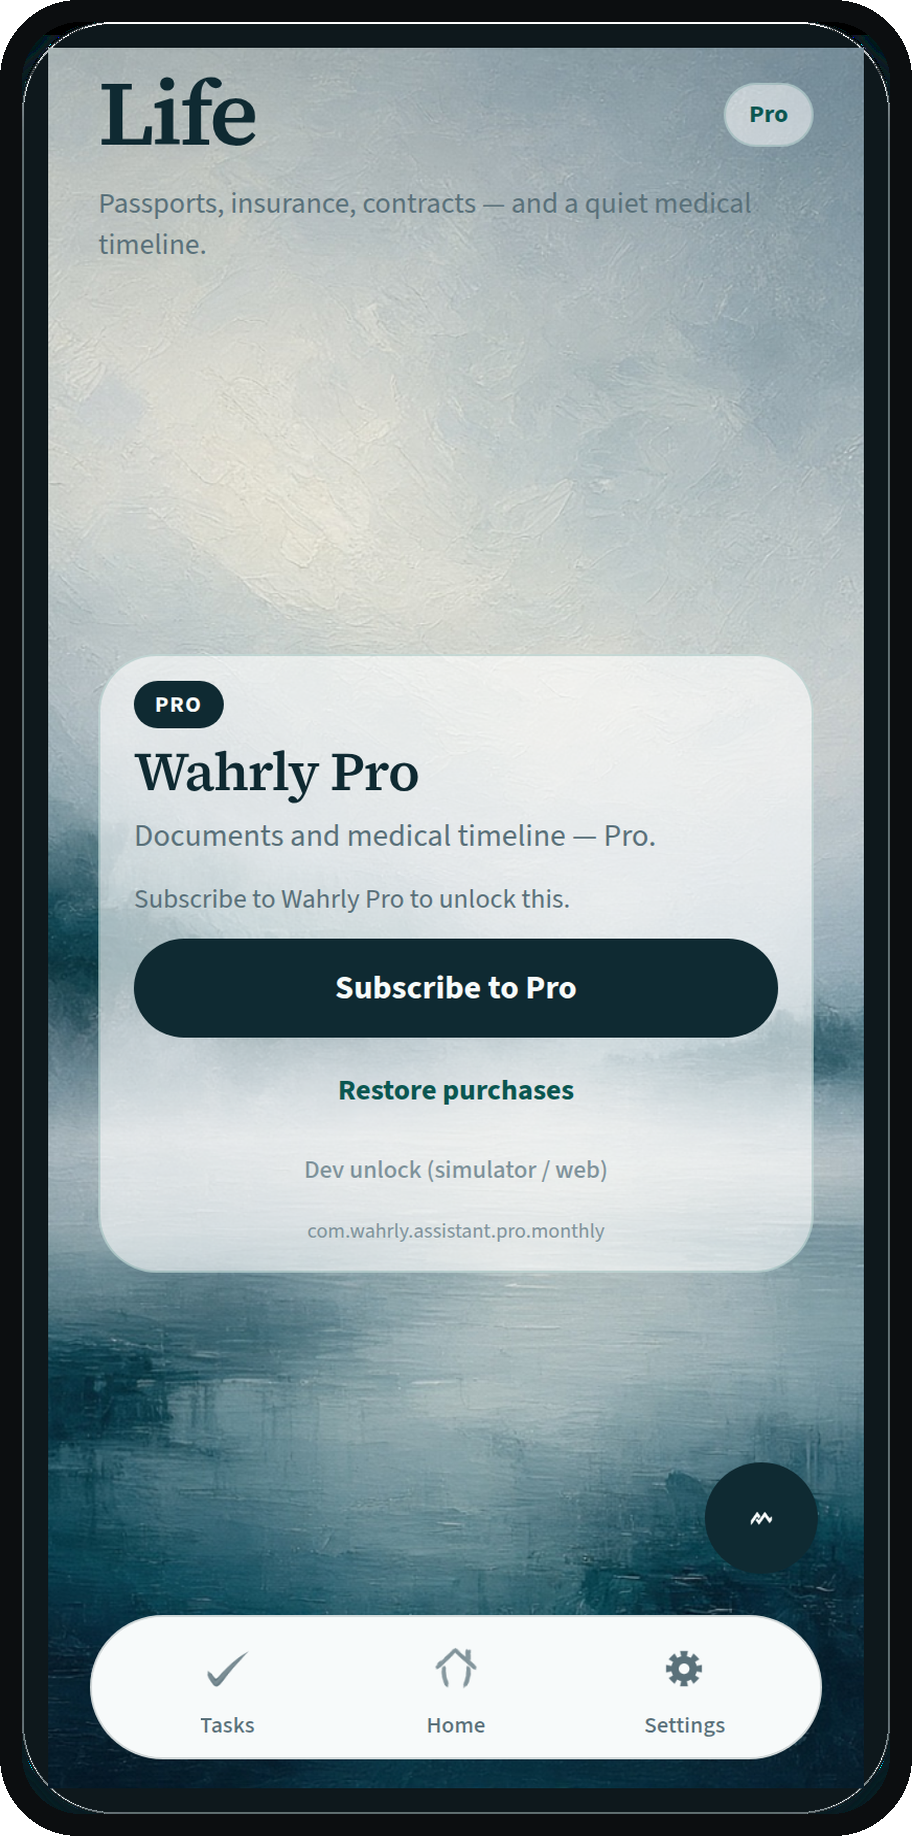
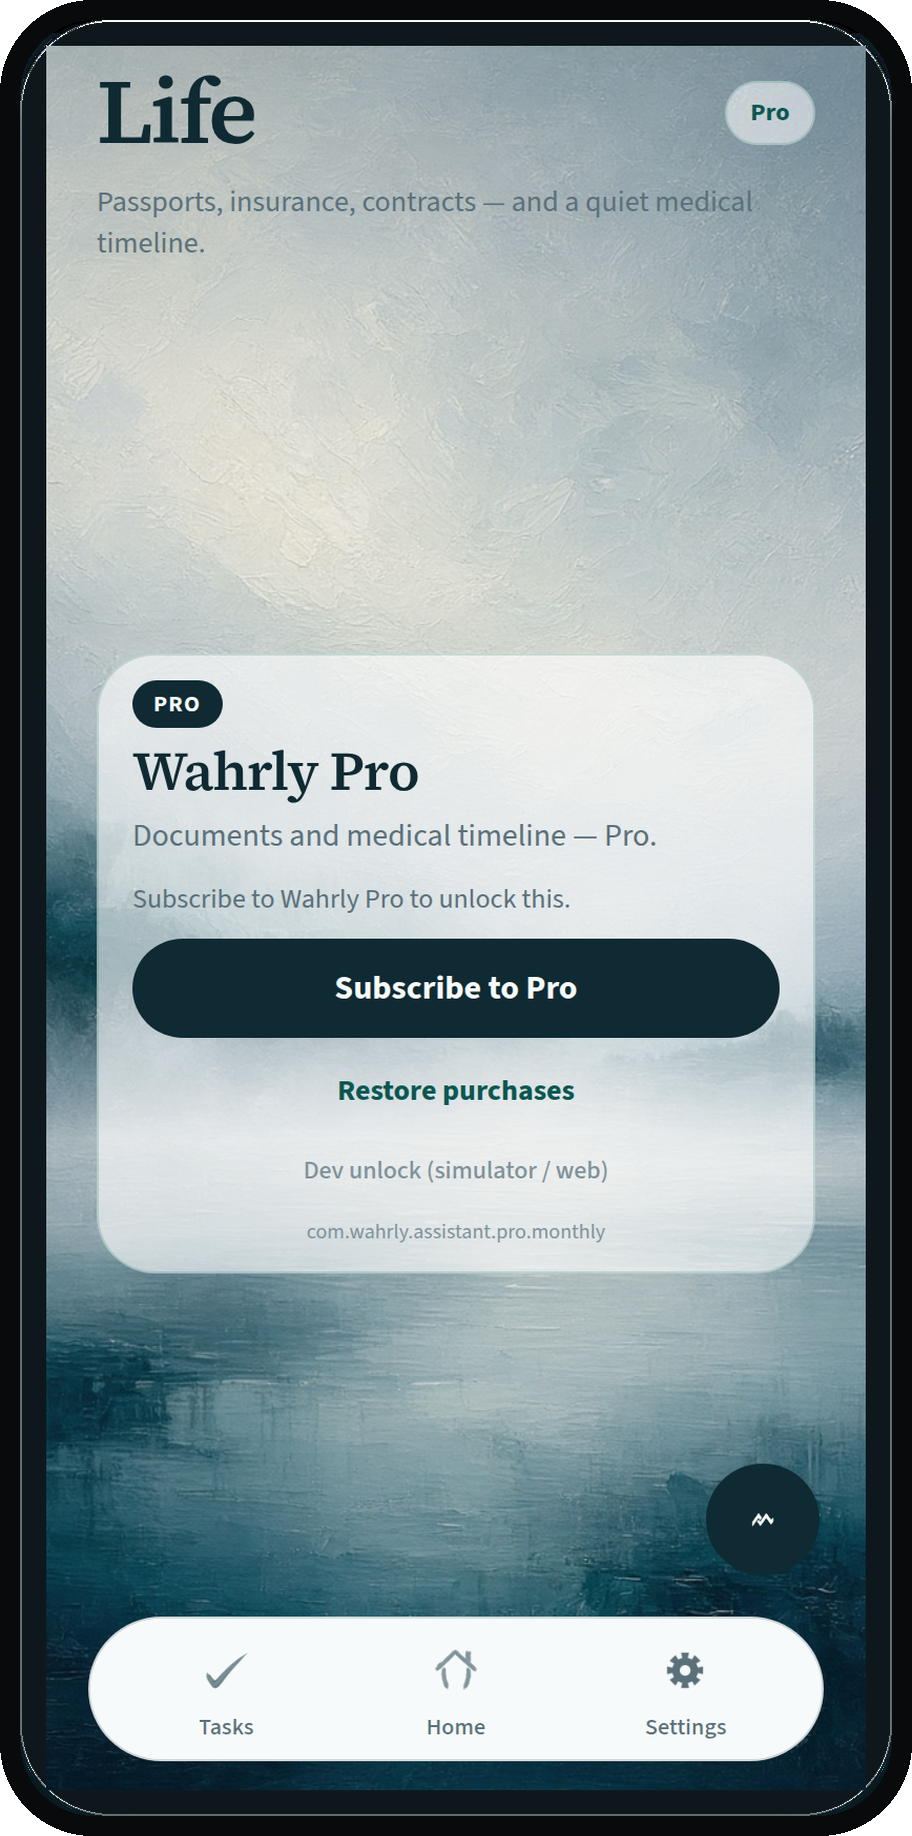
Round all device screens with matching corner masks
Stronger inner screen radius so Pro frames no longer show
square content edges against the bezel.

diff --git a/nova/public-site/index.html b/nova/public-site/index.html
@@ -18,7 +18,7 @@
       href="https://fonts.googleapis.com/css2?family=Fraunces:opsz,wght@9..144,480;9..144,600&family=Outfit:wght@300;400;500;600&display=swap"
       rel="stylesheet"
     />
-    <link rel="stylesheet" href="./styles.css?v=thin-bezel" />
+    <link rel="stylesheet" href="./styles.css?v=round-screens" />
   </head>
   <body>
     <div class="grain" aria-hidden="true"></div>
@@ -288,6 +288,6 @@
       </div>
     </footer>
 
-    <script src="./motion.js?v=thin-bezel" defer></script>
+    <script src="./motion.js?v=round-screens" defer></script>
   </body>
 </html>

diff --git a/nova/public-site/styles.css b/nova/public-site/styles.css
@@ -225,8 +225,8 @@ a {
   height: 0;
   padding-bottom: 201.315789%; /* 1836 / 912 */
   overflow: hidden;
-  border-radius: 36px;
-  background: #0a1518;
+  border-radius: 42px;
+  background: transparent;
 }
 
 .cine-shot {
@@ -499,8 +499,8 @@ a {
   height: 0;
   padding-bottom: 201.315789%; /* 1836 / 912 — locks ratio on iOS */
   overflow: hidden;
-  border-radius: 28px;
-  background: #0a1518;
+  border-radius: 34px;
+  background: transparent;
 }
 
 .orbit-frame img {
